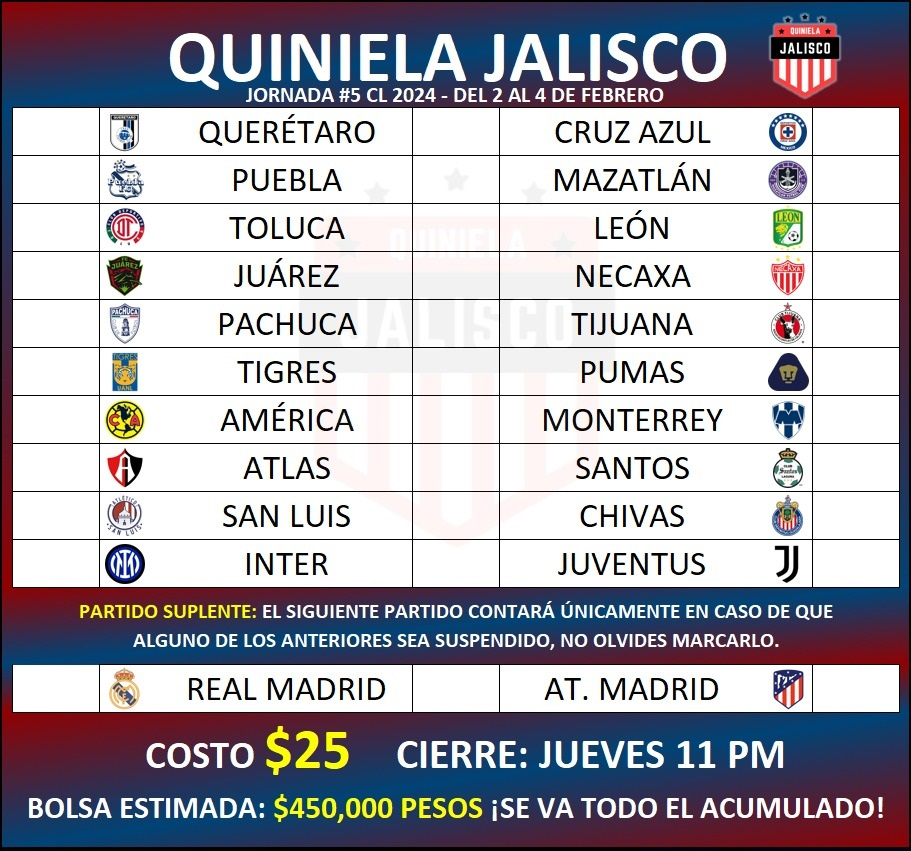
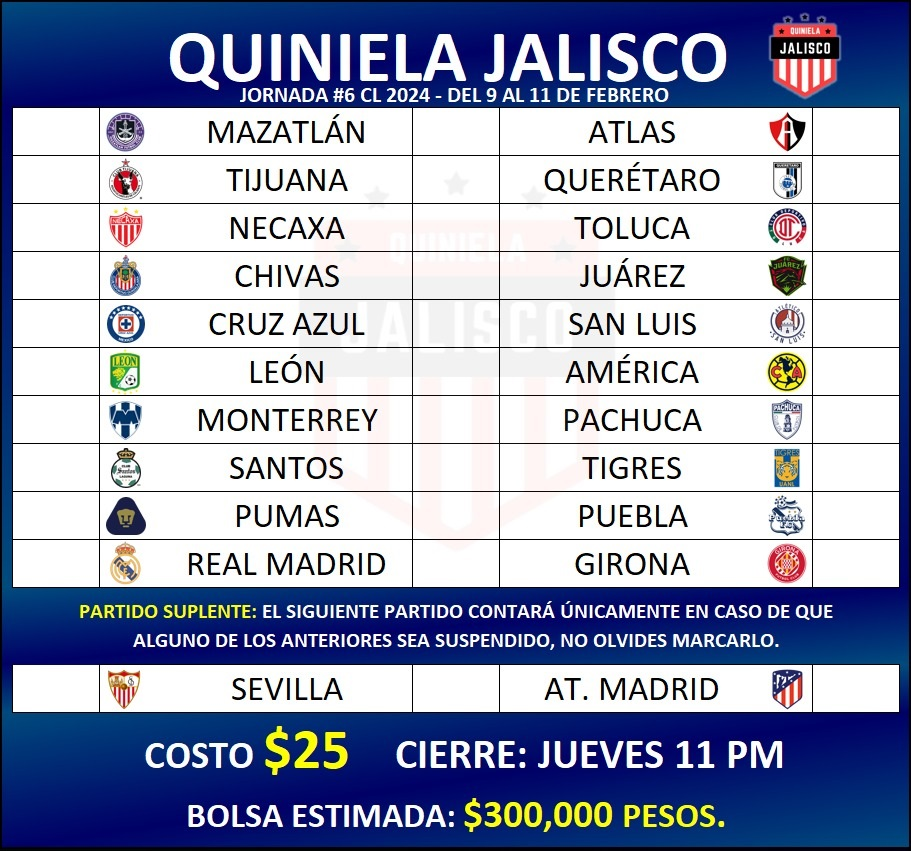
Jornada 6 C24

diff --git a/11/styles11.css b/11/styles11.css
@@ -95,8 +95,8 @@ body{
     margin-top: 8.5%;
     border-top: solid 1px black;
     border-radius: 0 0 14px 14px;
-    background: -webkit-linear-gradient(0.48turn, rgb(134,5,9) -7% ,rgb(3,66,117) 60%, rgb(134,5,9) 148% );
-    background: linear-gradient(0.48turn, rgb(134,5,9) -7% ,rgb(3,66,117) 60%, rgb(134,5,9) 148% );
+    background: -webkit-linear-gradient(0.48turn, rgb(0 2 103) -7% ,rgb(3,66,117) 60%, rgb(0 6 104) 148% );
+    background: linear-gradient(0.48turn, rgb(0 2 103) -7% ,rgb(3,66,117) 60%, rgb(0 6 104) 148% );
 }
 
 .text-lg{
@@ -292,7 +292,7 @@ h6{
 }
 
 #cantidad:before{
-    content:'$450,000 pesos \A ¡Se va todo el acumulado!';
+    content:'$300,000 pesos';
     color: yellow;
     white-space:pre;
 }
